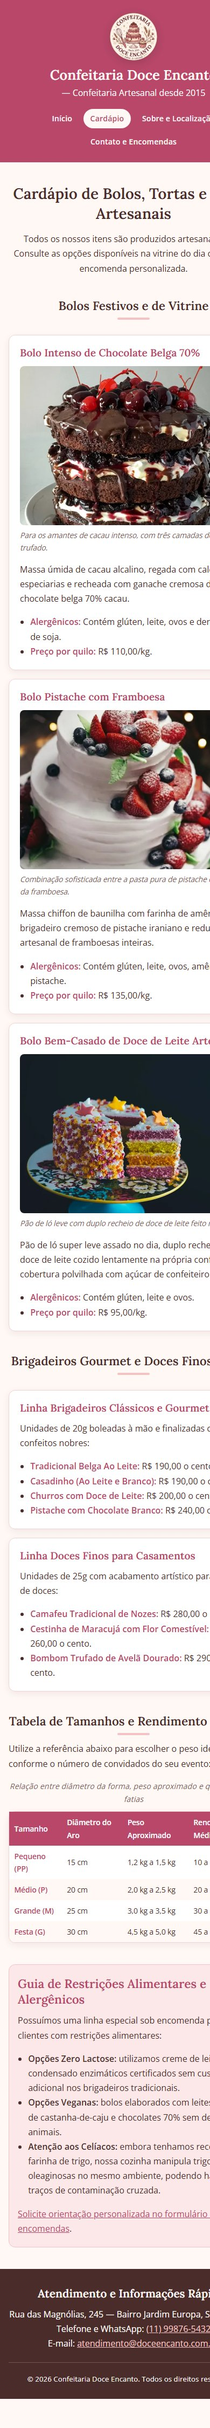
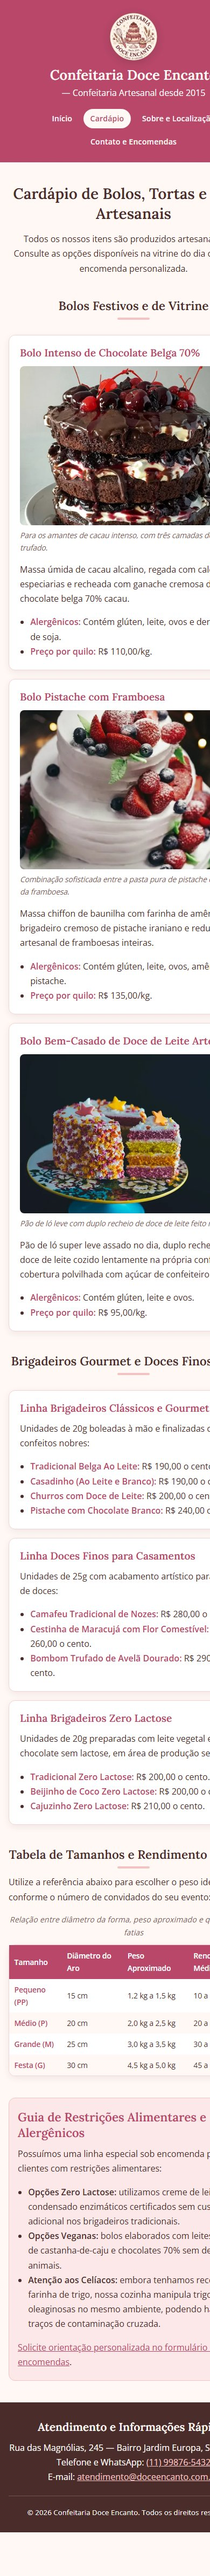
Equilibra as seções de cards com um terceiro card e atualiza os prints
Adiciona um card nas seções que tinham apenas dois (depoimentos, brigadeiros e doces finos, história, localização e perguntas frequentes) para preencher a grade de três colunas.

diff --git a/sobre.html b/sobre.html
@@ -58,6 +58,13 @@
                     os morangos chegam frescos todas as terças e sextas-feiras de produtores familiares do interior
                     paulista.</p>
             </article>
+
+            <article>
+                <h3>Uma Equipe Que Faz Tudo à Mão</h3>
+                <p>Sob o comando da chef Clara Mendes, nossa equipe de confeiteiros prepara massas, recheios e
+                    coberturas diariamente, sem etapas industrializadas. Cada bolo e cada brigadeiro são finalizados à
+                    mão, um a um, antes de seguir para a vitrine ou para a sua festa.</p>
+            </article>
         </section>
 
         <section aria-labelledby="titulo-localizacao">
@@ -90,6 +97,13 @@
                     <dt><strong>Segundas-feiras:</strong></dt>
                     <dd>Fechado para manutenção e produção interna.</dd>
                 </dl>
+            </article>
+
+            <article>
+                <h3>Retiradas e Entregas</h3>
+                <p>As encomendas podem ser retiradas na loja em horário combinado ou entregues em domicílio em
+                    embalagem refrigerada. A taxa de entrega varia conforme o CEP e é informada no momento do
+                    orçamento.</p>
             </article>
         </section>
 

diff --git a/cardapio.html b/cardapio.html
@@ -106,6 +106,16 @@
                     <li><strong>Bombom Trufado de Avelã Dourado:</strong> R$ 290,00 o cento.</li>
                 </ul>
             </article>
+
+            <article>
+                <h3>Linha Brigadeiros Zero Lactose</h3>
+                <p>Unidades de 20g preparadas com leite vegetal e chocolate sem lactose, em área de produção separada:</p>
+                <ul>
+                    <li><strong>Tradicional Zero Lactose:</strong> R$ 200,00 o cento.</li>
+                    <li><strong>Beijinho de Coco Zero Lactose:</strong> R$ 200,00 o cento.</li>
+                    <li><strong>Cajuzinho Zero Lactose:</strong> R$ 210,00 o cento.</li>
+                </ul>
+            </article>
         </section>
 
         <section aria-labelledby="tabela-rendimento">

diff --git a/index.html b/index.html
@@ -100,6 +100,15 @@
                 </blockquote>
                 <p>— <cite>Renata Alencar</cite>, cliente desde 2024.</p>
             </article>
+
+            <article>
+                <h3>Mesa de Doces de Aniversário</h3>
+                <blockquote>
+                    <p>"Pedi uma mesa de doces para os 60 anos da minha mãe e tudo chegou refrigerado, no horário e
+                        lindo demais. Os brigadeiros de pistache sumiram em dez minutos!"</p>
+                </blockquote>
+                <p>— <cite>Fernanda Souza</cite>, cliente desde 2022.</p>
+            </article>
         </section>
 
         <aside aria-labelledby="titulo-aviso-encomendas">

diff --git a/contato.html b/contato.html
@@ -135,6 +135,12 @@
                     (sem gordura hidrogenada), todos os bolos devem permanecer refrigerados entre 4 °C e 8 °C e ser
                     retirados da geladeira cerca de 30 minutos antes de cortar.</p>
             </article>
+
+            <article>
+                <h3>Posso alterar a data da minha encomenda?</h3>
+                <p>Sim. A alteração de data pode ser solicitada sem custo até 72 horas antes da data agendada, sujeita
+                    à disponibilidade da nossa agenda de produção.</p>
+            </article>
         </section>
 
         <aside aria-labelledby="titulo-politica-pagamento">
